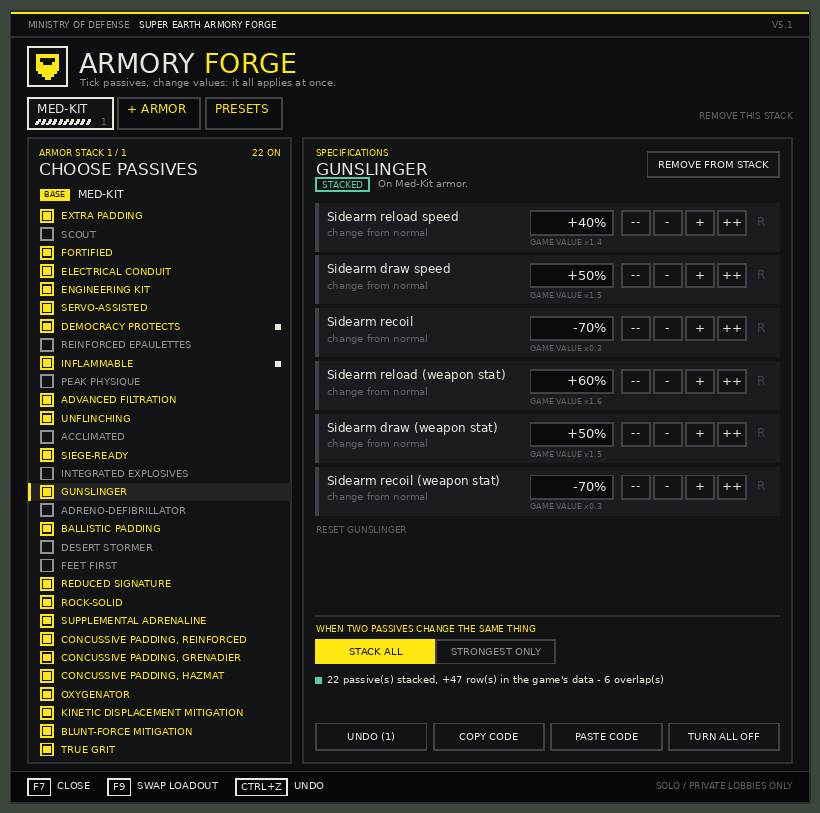
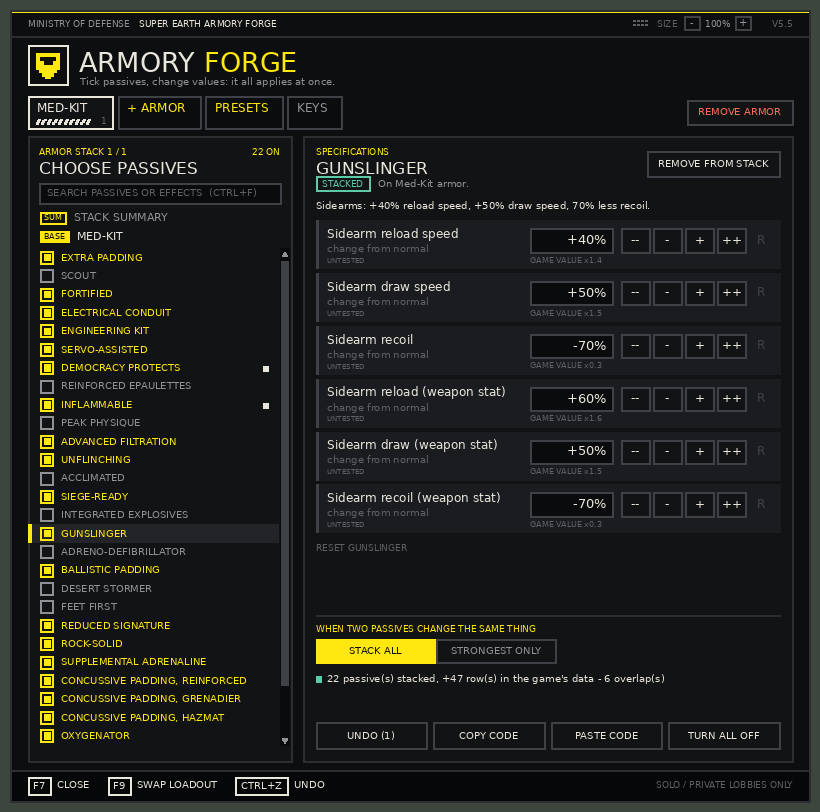
Armory Forge: 5.5 features, Nexus Lite edition, 460+ checks
- Card and case study: controller support, passive info, stack summary,
  two editions (full on AyakaMods, Nexus-approved Lite), test and CI
  numbers, links to the Nexus page and the architecture doc
- New feature section: Two Editions, One Codebase
- Fresh panel screenshots and the swap-edition image

diff --git a/src/pages/projectPage/ArmoryForgeDetail.tsx b/src/pages/projectPage/ArmoryForgeDetail.tsx
@@ -21,6 +21,7 @@ import {
   Layers,
   Package,
   Rocket,
+  ShieldCheck,
   Shuffle,
   Terminal,
   Wrench,
@@ -42,6 +43,7 @@ const Icons: Record<string, LucideIcon> = {
   Layers,
   Package,
   Rocket,
+  ShieldCheck,
   Shuffle,
   Terminal,
   Wrench,
@@ -52,6 +54,8 @@ const REPO_URL = "https://github.com/Hung1510/Super-Earth-Armory-Forge";
 const WEB_URL = "https://hung1510.github.io/Super-Earth-Armory-Forge/";
 const AYAKA_URL = "https://ayakamods.com/mods/super-earth-armory-forge.4359/";
 const ORIGIN_URL = "https://ayakamods.com/mods/modular-armor-passives.4350/";
+const NEXUS_URL = "https://www.nexusmods.com/helldivers2/mods/16789";
+const ARCH_DOC_URL = `${REPO_URL}/blob/main/docs/ARCHITECTURE.md`;
 
 const IMG = "/projects/armoryForge";
 
@@ -79,12 +83,20 @@ const FEATURES: Feature[] = [
         en: "One tab per armor passive, several independent stacks at once; overlapping effects resolve as Stack all or Strongest only",
       }),
       lang({
+        vi: "Mỗi passive có mô tả một dòng, danh sách giáp mang passive đó, và nhãn đã/chưa xác nhận trong game; mục Stack summary cộng dồn mọi hiệu ứng",
+        en: "Every passive has a one-line description, the armors that carry it, and a confirmed-in-game mark; a Stack summary adds every effect up",
+      }),
+      lang({
+        vi: "Hỗ trợ tay cầm (XInput): D-pad di chuyển khung focus tới nút gần nhất, danh sách tự cuộn; cộng thêm tìm kiếm (Ctrl+F), đổi phím, kéo thả và phóng to panel",
+        en: "Controller support (XInput): the D-pad moves a focus box to the nearest button and lists scroll under it; plus search (Ctrl+F), rebindable keys, drag, and 80-150% sizing",
+      }),
+      lang({
         vi: "Undo 30 bước (Ctrl+Z), copy/paste build thành một dòng mã để chia sẻ",
         en: "30-step undo (Ctrl+Z), and copy/paste a build as a one-line share code",
       }),
     ],
     dotColor: "bg-yellow-500",
-    tags: ["Lua / LuaJIT", "Live memory patching", "Immediate-mode UI"],
+    tags: ["Lua / LuaJIT", "Live memory patching", "Immediate-mode UI", "XInput"],
     tagDark: "bg-yellow-900/40 text-yellow-300 border border-yellow-700/40",
     tagLight: "bg-yellow-100 text-yellow-700 border border-yellow-200",
     img: `${IMG}/panel-gunslinger.png`,
@@ -199,29 +211,35 @@ $ python tools/picker.py build loadout.ini \\
     }),
     features: [
       lang({
-        vi: "Harness Python giả lập bộ nhớ, GUI engine, bàn phím và chuột để chạy mod thật trên LuaJIT",
-        en: "A Python harness fakes memory, the engine GUI, keyboard, and mouse so the real mod runs under LuaJIT",
+        vi: "Harness Python giả lập bộ nhớ, GUI engine, bàn phím, chuột và tay cầm để chạy mod thật trên LuaJIT, thao tác như một người chơi",
+        en: "A Python harness fakes memory, the engine GUI, keyboard, mouse, and an Xbox controller so the real mod runs under LuaJIT, driven like a player",
       }),
       lang({
         vi: "Kiểm tra các hàng patch khớp với picker.py, luồng panel, lưu/khôi phục, zip release và save từ trước khi đổi tên",
         en: "Checks patched rows match picker.py, panel flows, save/restore, the release zip, and pre-rename saves",
       }),
       lang({
-        vi: "Test layout đảm bảo không chữ nào chồng lấn hay bị cắt trong mọi màn hình của panel",
-        en: "A layout test guarantees no overlapping or clipped text in any panel view",
+        vi: "Test layout đo chữ bằng font thật ở 720p tới 4K và 80-150%: không chồng lấn, không bị cắt, luôn đúng từng pixel",
+        en: "Layout checks measure text with a real font from 720p to 4K at 80-150%: no overlaps, no clipping, every edge on a whole pixel",
+      }),
+      lang({
+        vi: "Mỗi bản phát hành có thêm một lượt review độc lập; lỗi tìm được đều thành test mới",
+        en: "Each release also gets an independent code review, and every bug it finds becomes a new test",
       }),
     ],
     dotColor: "bg-emerald-500",
-    tags: ["5 test suites", "GitHub Actions", "LuaJIT harness"],
+    tags: ["460+ checks", "11 suites", "GitHub Actions", "LuaJIT harness"],
     tagDark: "bg-emerald-900/40 text-emerald-300 border border-emerald-700/40",
     tagLight: "bg-emerald-100 text-emerald-700 border border-emerald-200",
-    code: `$ python tools/picker.py export-web --check
-$ python tests/test_ingame.py
-$ python tests/test_panel_features.py
-$ python tests/test_release.py
-$ python tests/test_panel_layout.py
-$ node tests/test_web_parity.js
-# web output == python output, byte for byte`,
+    code: `$ ruff check tools tests
+$ python tests/run_all.py
+test_ingame.py            45  engine vs fake game
+test_panel_layout.py     190  720p..4K, no overlaps
+test_controller.py        24  fake Xbox pad
+test_swap_edition.py      23  can't exceed vanilla
+test_web_parity.js         9  web == python, bytes
+...
+460 checks, 0 failed`,
   },
   {
     num: "06",
@@ -242,8 +260,8 @@ $ node tests/test_web_parity.js
         en: "It dumps every passive with the game's own values; check-dump prints ready-to-paste CATALOG lines",
       }),
       lang({
-        vi: "Tag một version, GitHub Actions dựng zip và gắn vào Release",
-        en: "Push a tag and GitHub Actions builds the zip and attaches it to the release",
+        vi: "Tag một version: GitHub Actions chạy toàn bộ test, dựng cả hai bản, viết release notes từ CHANGELOG; zip chỉ chứa file trong danh sách cho phép",
+        en: "Push a tag: GitHub Actions runs every test, builds both editions, and writes the release notes from the CHANGELOG; zips are allow-listed so no script slips in",
       }),
     ],
     dotColor: "bg-rose-500",
@@ -256,7 +274,36 @@ $ node tests/test_web_parity.js
 $ python tools/picker.py check-dump
 NEW      <passive>  -> paste into CATALOG
 CHANGED  <passive>.<effect>  0.75 -> 0.80
-$ git tag v5.0 && git push origin v5.0`,
+$ git tag v5.5 && git push origin v5.5`,
+  },
+  {
+    num: "07",
+    icon: "ShieldCheck",
+    iconBg: "bg-teal-900/30",
+    title: lang({ vi: "Hai phiên bản, một codebase", en: "Two Editions, One Codebase" }),
+    subtitle: lang({
+      vi: "Bản đầy đủ cho AyakaMods, bản Lite được Nexus Mods duyệt",
+      en: "The full mod for AyakaMods, a Lite edition approved by Nexus Mods",
+    }),
+    features: [
+      lang({
+        vi: "Nexus gỡ bản đầy đủ vì cân bằng multiplayer; tôi làm bản Passive Swap: mỗi giáp một passive, giá trị copy thẳng từ dữ liệu của game",
+        en: "Nexus removed the full mod over multiplayer balance, so I built a Passive Swap edition: one passive per armor, values copied straight from the game's own data",
+      }),
+      lang({
+        vi: "Giới hạn được engine cưỡng chế, không chỉ ẩn trên UI; test tấn công bằng file save sửa tay để chứng minh không vượt được vanilla",
+        en: "The limit is enforced in the engine, not just hidden in the UI; a test attacks it with a hand-edited save to prove it can't exceed vanilla",
+      }),
+      lang({
+        vi: "Làm việc với đội hỗ trợ của Nexus và được duyệt đăng lại dưới dạng mod mới",
+        en: "Worked it through with Nexus support and got approval to publish it as a new mod",
+      }),
+    ],
+    dotColor: "bg-teal-500",
+    tags: ["Build flags", "Engine-enforced limits", "Nexus Mods"],
+    tagDark: "bg-teal-900/40 text-teal-300 border border-teal-700/40",
+    tagLight: "bg-teal-100 text-teal-700 border border-teal-200",
+    img: `${IMG}/swap-panel.png`,
   },
 ];
 
@@ -269,8 +316,10 @@ const TECH = [
   { icon: "GitBranch", name: "GitHub Actions", role: "CI + releases" },
   { icon: "FlaskConical", name: "lupa", role: "Lua from Python tests" },
   { icon: "Gamepad2", name: "Bingus Shared Loader", role: "Mod loader" },
-  { icon: "Rocket", name: "AyakaMods", role: "Distribution" },
-  { icon: "CheckCircle2", name: "5 test suites", role: "Game-free verification" },
+  { icon: "Rocket", name: "AyakaMods + Nexus", role: "Distribution" },
+  { icon: "Keyboard", name: "Win32 + XInput FFI", role: "Mouse, keys, controller" },
+  { icon: "Wrench", name: "ruff", role: "Python lint in CI" },
+  { icon: "CheckCircle2", name: "460+ checks", role: "Game-free verification" },
 ];
 
 const ARCH = [
@@ -288,7 +337,7 @@ const ARCH = [
     dark: "border-yellow-500/30 bg-yellow-900/10",
     light: "border-yellow-200 bg-yellow-50",
     titleColor: "text-yellow-600",
-    desc: "engine.lua finds the perk records in memory and applies or restores stacks; panel.lua draws the F7 terminal and handles mouse and keyboard; main.lua runs the per-frame tick. Everything saves to the same loadout.ini.",
+    desc: "engine.lua scans for the perk table in a per-frame time budget and swaps a record's modifier array with one verified, double-buffered 16-byte store, so every original byte can be restored. panel.lua draws the F7 terminal and handles mouse, keyboard and controller; main.lua runs the per-frame tick.",
   },
   {
     icon: "Globe",
@@ -316,6 +365,10 @@ const MY_ROLE_STEPS = [
       lang({
         vi: "Hệ thống loadout: preset, lưu/đổi tên/xóa, đổi nhanh bằng F9",
         en: "The loadout system: presets, save/rename/delete, and F9 quick-swap",
+      }),
+      lang({
+        vi: "Hỗ trợ tay cầm với điều hướng focus theo không gian, tìm kiếm, đổi phím, và thông tin passive lấy từ dữ liệu",
+        en: "Controller support with spatial focus navigation, search, rebindable keys, and data-driven passive info",
       }),
     ],
   },
@@ -360,12 +413,16 @@ const MY_ROLE_STEPS = [
     title: lang({ vi: "Kiểm thử & phát hành", en: "Testing & Release" }),
     items: [
       lang({
-        vi: "Harness game giả cho LuaJIT, 5 bộ test chạy trong CI",
-        en: "A fake-game harness for LuaJIT and five test suites running in CI",
+        vi: "Harness game giả cho LuaJIT, 11 bộ test (460+ kiểm thử) chạy trong CI, lint bằng ruff",
+        en: "A fake-game harness for LuaJIT, 11 test suites (460+ checks) in CI, and ruff linting",
       }),
       lang({
-        vi: "Release tự động qua tag, công cụ check-dump cho ngày patch, phát hành trên AyakaMods",
-        en: "Tag-driven releases, check-dump tooling for patch day, and publishing on AyakaMods",
+        vi: "Release tự động qua tag, công cụ check-dump cho ngày patch, phát hành trên AyakaMods và Nexus Mods (bản Lite được duyệt)",
+        en: "Tag-driven releases, check-dump tooling for patch day, and publishing on AyakaMods and Nexus Mods (the approved Lite edition)",
+      }),
+      lang({
+        vi: "Hỗ trợ người chơi: đọc log họ gửi, sửa lỗi họ báo (cuộn danh sách, nút xóa rõ hơn, đổi phím) trong vài giờ",
+        en: "Player support: reading the logs they post and shipping fixes for what they report (scrolling lists, a clearer remove button, key rebinding) within hours",
       }),
     ],
   },
@@ -387,7 +444,7 @@ function ArmoryForgeDetail() {
         <title>Super Earth Armory Forge | Gia Hung Pham</title>
         <meta
           name="description"
-          content="Super Earth Armory Forge - a Helldivers 2 armor passive editor mod: stack any of the 31 armor passives and set every value live in game through an F7 Lua terminal, with loadouts, a Python generator, and a byte-identical web builder."
+          content="Super Earth Armory Forge - a Helldivers 2 armor passive editor that patches the game's memory live: an F7 Lua terminal with mouse, keyboard and controller support, loadouts, a byte-identical web builder, 460+ automated checks, and a Nexus-approved Lite edition."
         />
         <link
           rel="canonical"
@@ -422,7 +479,7 @@ function ArmoryForgeDetail() {
               }`}
             >
               <span className="w-1.5 h-1.5 rounded-full bg-blue-500 animate-pulse" />
-              Lua · Python · JavaScript · Published on AyakaMods
+              Lua · Python · JavaScript · AyakaMods + Nexus Mods
             </div>
 
             <h1
@@ -439,16 +496,16 @@ function ArmoryForgeDetail() {
               }`}
             >
               {lang({
-                vi: "Mod chỉnh passive giáp cho Helldivers 2: ghép bất kỳ passive nào trong 31 passive lên bộ giáp đang mặc và chỉnh mọi giá trị trực tiếp trong game qua terminal F7. Một lần cài, lưu và đổi loadout bằng F9, cộng web builder tùy chọn cho ra đúng từng byte như generator Python.",
-                en: "A Helldivers 2 armor passive editor: stack any of the 31 armor passives onto the armor you wear and set every value live in game through an F7 terminal. One install, loadouts saved and swapped with F9, plus an optional web builder that produces byte-for-byte the same build as the Python generator.",
+                vi: "Mod chỉnh passive giáp cho Helldivers 2, sửa dữ liệu của game ngay trong bộ nhớ khi đang chơi: ghép bất kỳ passive nào trong 31 passive lên bộ giáp và chỉnh mọi giá trị qua terminal F7, bằng chuột, bàn phím hoặc tay cầm. Một lần cài, lưu và đổi loadout bằng F9, cộng web builder cho ra đúng từng byte như generator Python. Có thêm bản Lite (một passive mỗi giáp, giá trị gốc của game) được Nexus Mods duyệt.",
+                en: "A Helldivers 2 armor passive editor that patches the game's data in memory while it runs: stack any of the 31 armor passives onto your armor and set every value through an F7 terminal, by mouse, keyboard or controller. One install, loadouts swapped with F9, and a web builder that produces byte-for-byte the same build as the Python generator. A Lite edition (one passive per armor, the game's own values) is approved on Nexus Mods.",
               })}
             </p>
 
             <div className="flex gap-8 mb-8 flex-wrap justify-center">
               {[
                 { n: "31/31", l: lang({ vi: "Passive giáp", en: "Armor passives" }) },
-                { n: "F7", l: lang({ vi: "Sửa trực tiếp trong game", en: "Live in-game editor" }) },
-                { n: "5", l: lang({ vi: "Bộ test trong CI", en: "Test suites in CI" }) },
+                { n: "460+", l: lang({ vi: "Kiểm thử trong CI", en: "Checks in CI" }) },
+                { n: "2", l: lang({ vi: "Phiên bản, một codebase", en: "Editions, one codebase" }) },
                 { n: "1:1", l: lang({ vi: "Web ↔ Python", en: "Web ↔ Python parity" }) },
               ].map((s) => (
                 <div key={s.l} className="text-center">
@@ -481,8 +538,8 @@ function ArmoryForgeDetail() {
                 Passive Picker v3
               </a>
               {lang({
-                vi: " của mostlycloudy. Lõi memory-patching, định dạng archive và dữ liệu passive vẫn đến từ mod đó (credit engine cho SHODAN). Terminal trong game, hệ thống loadout, lớp cấu hình, web builder và bộ test là phần tôi xây.",
-                en: " by mostlycloudy. Its memory-patching core, archive format, and passive data still come from that mod (engine credit to SHODAN). The in-game terminal, loadouts, config layer, web builder, and test suite are my work.",
+                vi: " của mostlycloudy. Lõi memory-patching, định dạng archive và dữ liệu passive vẫn đến từ mod đó (credit engine cho SHODAN). Terminal trong game, hỗ trợ tay cầm, hệ thống loadout, lớp cấu hình, web builder, hai phiên bản và bộ test là phần tôi xây.",
+                en: " by mostlycloudy. Its memory-patching core, archive format, and passive data still come from that mod (engine credit to SHODAN). The in-game terminal, controller support, loadouts, config layer, web builder, both editions, and the test suite are my work.",
               })}
             </div>
 
@@ -509,6 +566,18 @@ function ArmoryForgeDetail() {
                 {GameIcon && <GameIcon />} AyakaMods
               </a>
               <a
+                href={NEXUS_URL}
+                target="_blank"
+                rel="noopener noreferrer"
+                className={`inline-flex items-center gap-2 px-5 py-2.5 rounded-xl text-sm font-medium transition-all hover:-translate-y-0.5 border ${
+                  isLight
+                    ? "border-slate-300 text-slate-700 hover:border-sky-400 hover:text-sky-600"
+                    : "border-white/20 text-white hover:border-sky-400 hover:text-sky-400"
+                }`}
+              >
+                {GameIcon && <GameIcon />} Nexus Mods (Lite)
+              </a>
+              <a
                 href={REPO_URL}
                 target="_blank"
                 rel="noopener noreferrer"
@@ -519,6 +588,18 @@ function ArmoryForgeDetail() {
                 }`}
               >
                 {ZapIcon && <ZapIcon />} GitHub
+              </a>
+              <a
+                href={ARCH_DOC_URL}
+                target="_blank"
+                rel="noopener noreferrer"
+                className={`inline-flex items-center gap-2 px-5 py-2.5 rounded-xl text-sm font-medium transition-all hover:-translate-y-0.5 border ${
+                  isLight
+                    ? "border-slate-300 text-slate-700 hover:border-sky-400 hover:text-sky-600"
+                    : "border-white/20 text-white hover:border-sky-400 hover:text-sky-400"
+                }`}
+              >
+                {ZapIcon && <ZapIcon />} {lang({ vi: "Tài liệu kiến trúc", en: "Architecture doc" })}
               </a>
             </div>
           </div>

diff --git a/src/components/ProjectsSection.tsx b/src/components/ProjectsSection.tsx
@@ -79,15 +79,15 @@ export const flagshipProjects: FlagshipProject[] = [
     titlePre: "Super Earth Armory ",
     titleAccent: "Forge",
     description: lang({
-      vi: "Mod chỉnh passive giáp cho Helldivers 2: ghép bất kỳ passive nào trong 31 passive lên bộ giáp đang mặc và chỉnh mọi giá trị trực tiếp trong game qua terminal F7 viết bằng Lua (LuaJIT), kèm loadout đổi nhanh bằng F9, undo và mã chia sẻ. Generator Python và web builder trên GitHub Pages cho ra build giống hệt từng byte, được kiểm thử trong CI bằng một game giả lập. Phát hành trên AyakaMods, phát triển từ Passive Picker v3 của mostlycloudy.",
-      en: "A Helldivers 2 armor passive editor mod: stack any of the 31 armor passives onto the armor you wear and set every value live in game through an F7 terminal written in Lua (LuaJIT), with F9 loadout swapping, undo, and share codes. A Python generator and a GitHub Pages web builder produce byte-identical builds, tested in CI against a fake-game harness. Published on AyakaMods; grew out of mostlycloudy's Passive Picker v3.",
+      vi: "Mod chỉnh passive giáp cho Helldivers 2, sửa dữ liệu của game ngay trong bộ nhớ khi đang chơi: ghép bất kỳ passive nào trong 31 passive lên bộ giáp và chỉnh mọi giá trị qua terminal F7 viết bằng Lua (LuaJIT), hỗ trợ chuột, bàn phím và tay cầm, kèm loadout đổi nhanh bằng F9, tìm kiếm và undo. Generator Python và web builder cho ra build giống hệt từng byte; 460+ kiểm thử chạy mod thật trên một game giả lập trong CI. Hai phiên bản từ một codebase: bản đầy đủ trên AyakaMods và bản Lite được Nexus Mods duyệt. Phát triển từ Passive Picker v3 của mostlycloudy.",
+      en: "A Helldivers 2 armor passive editor that patches the game's data in memory while it runs: stack any of the 31 armor passives onto your armor and set every value through an F7 terminal written in Lua (LuaJIT), with mouse, keyboard and controller support, F9 loadout swapping, search, and undo. A Python generator and a web builder produce byte-identical builds; 460+ checks run the real mod against a fake game in CI. Two editions from one codebase: the full mod on AyakaMods and a Nexus-approved Lite edition. Grew out of mostlycloudy's Passive Picker v3.",
     }),
     image: "/projects/armoryForge/panel-preview.png",
     imageFit: "contain",
     tags: ["Lua / LuaJIT", "Python", "JavaScript", "Game Modding"],
     stats: [
       { n: "31/31", l: lang({ vi: "Passive giáp", en: "Armor passives" }) },
-      { n: "F7", l: lang({ vi: "Sửa trong game", en: "Live in game" }) },
+      { n: "460+", l: lang({ vi: "Kiểm thử tự động", en: "Automated checks" }) },
       {
         n: "4.5K+",
         l: lang({ vi: "Lượt xem", en: "Views" }),
@@ -111,6 +111,10 @@ export const flagshipProjects: FlagshipProject[] = [
       {
         label: lang({ vi: "AyakaMods", en: "AyakaMods" }),
         url: "https://ayakamods.com/mods/super-earth-armory-forge.4359/",
+      },
+      {
+        label: lang({ vi: "Nexus Mods (Lite)", en: "Nexus Mods (Lite)" }),
+        url: "https://www.nexusmods.com/helldivers2/mods/16789",
       },
     ],
   },
